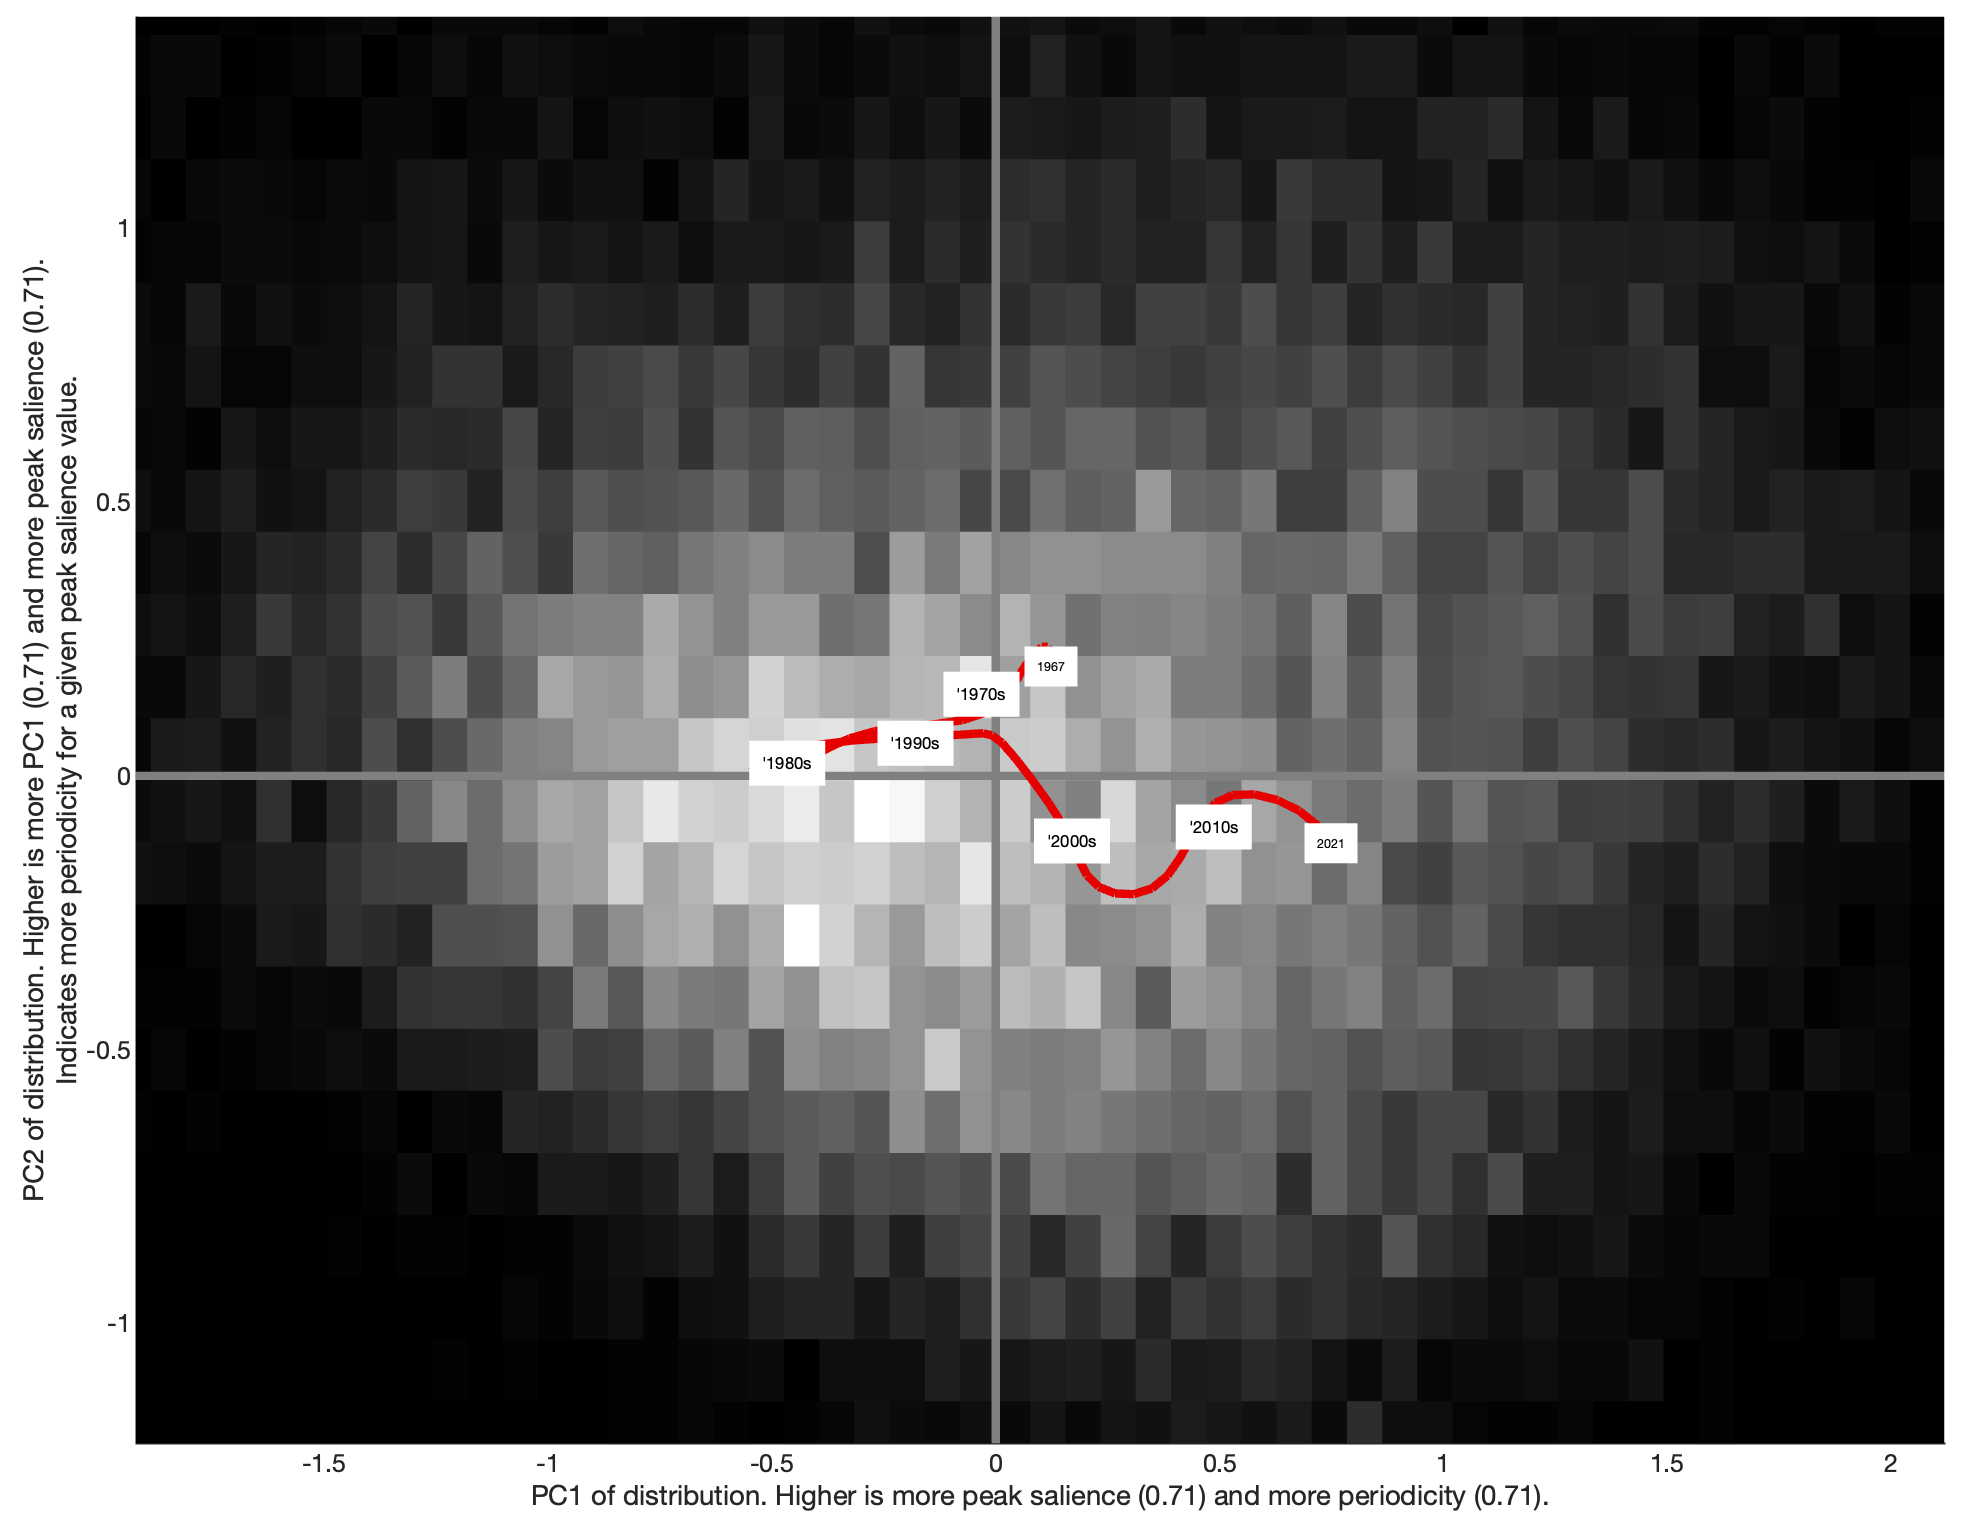
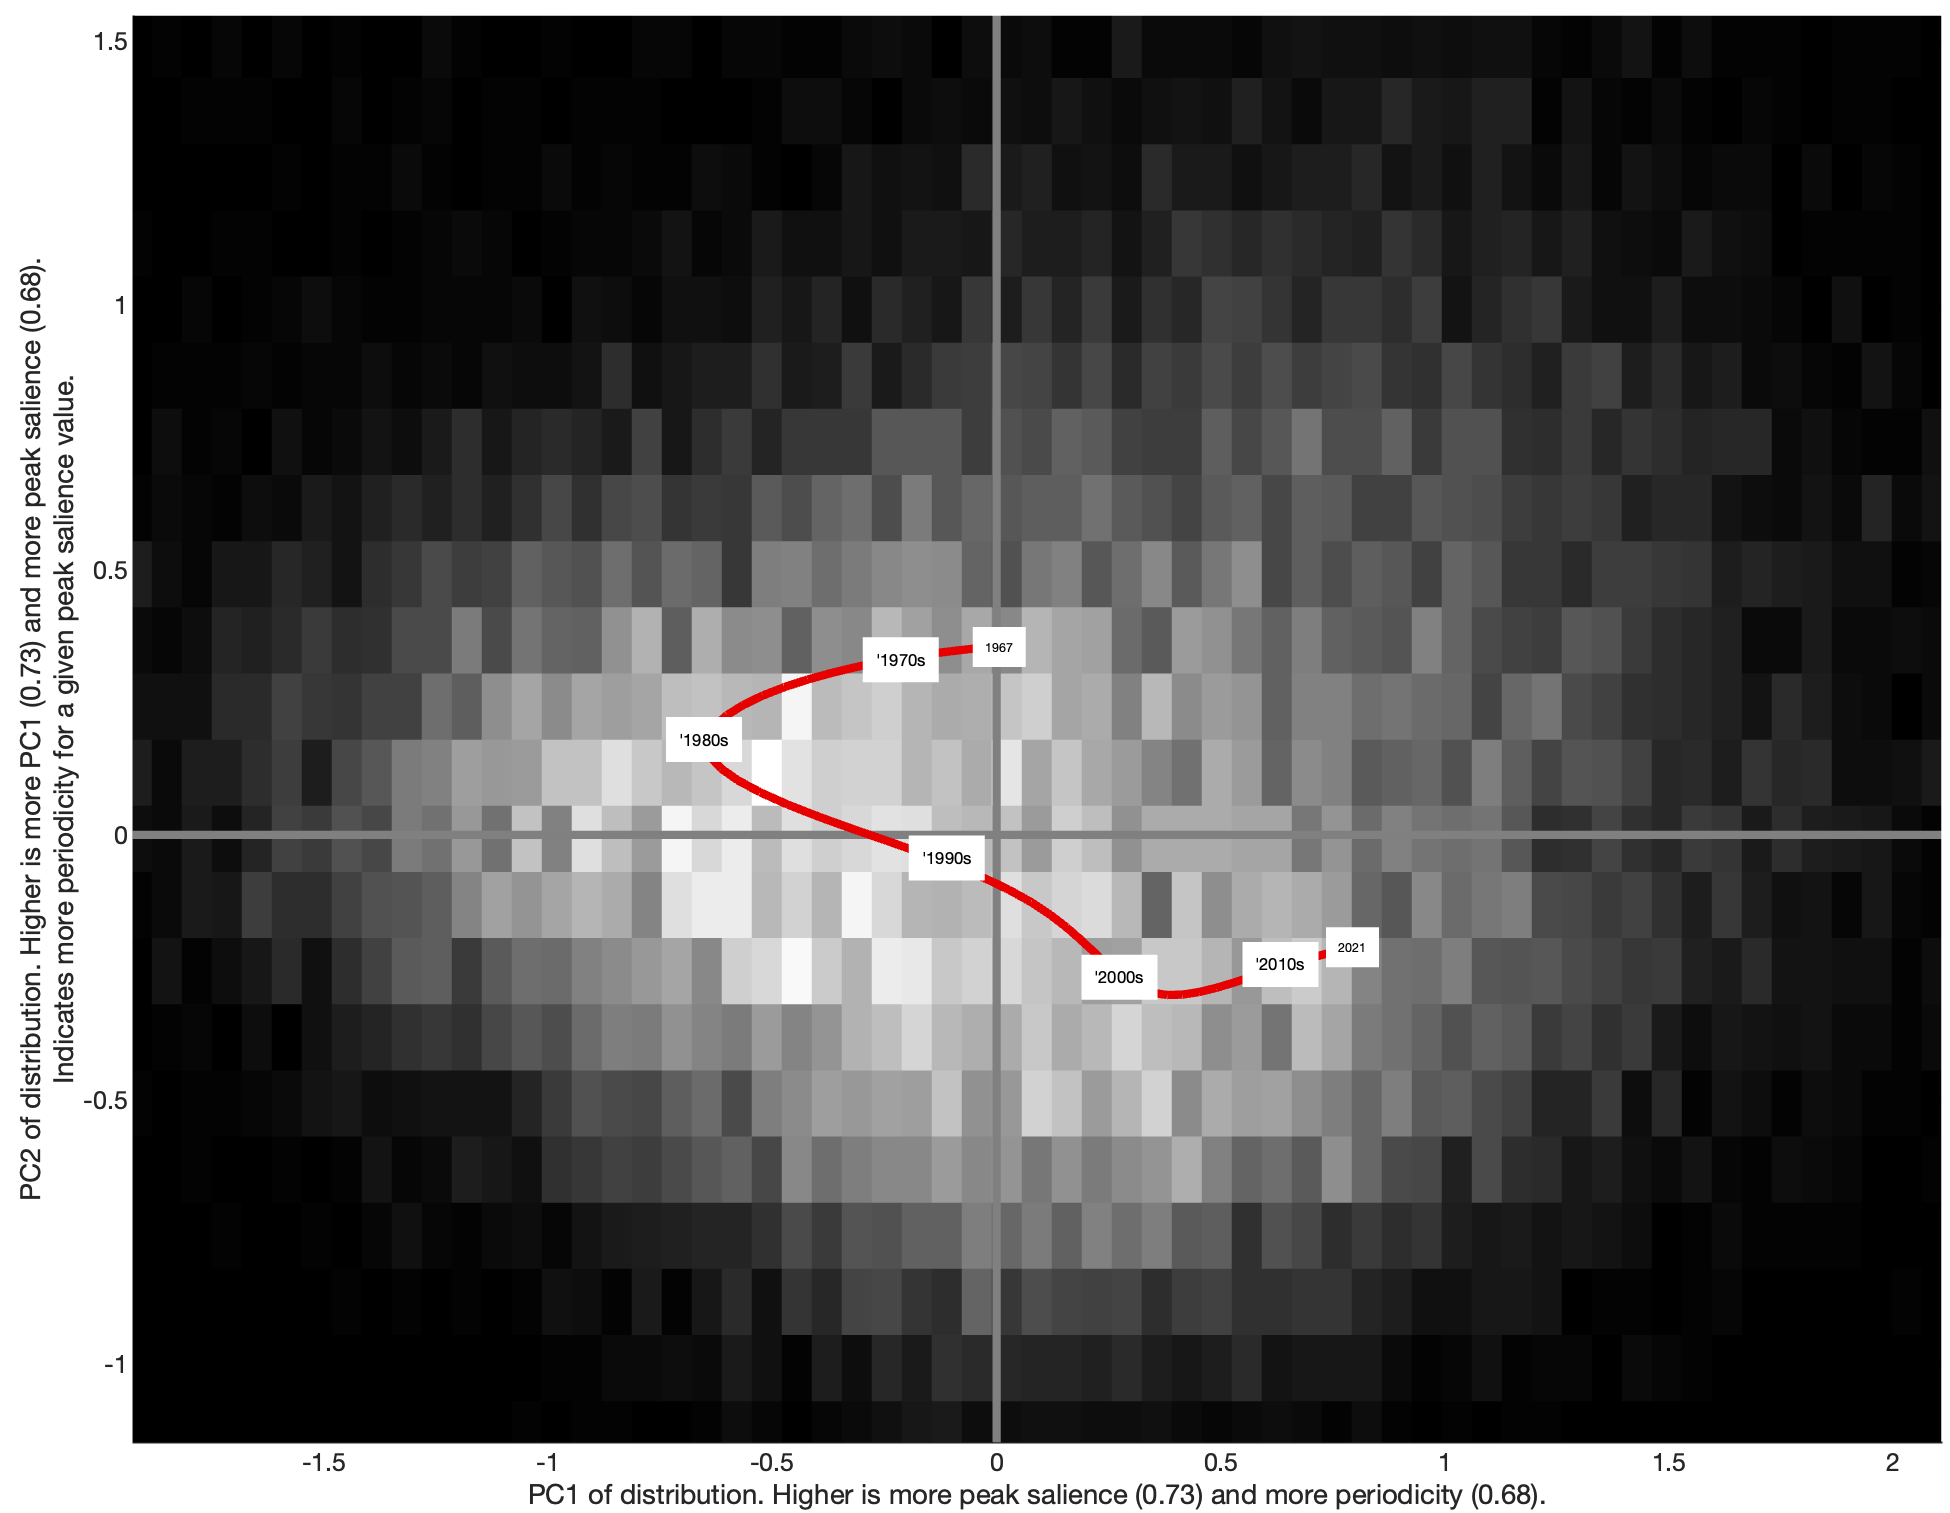
aa

diff --git a/docs/index.html b/docs/index.html
@@ -53,6 +53,16 @@
            the signal (ie organisation into harmonics).<br>
         </p></td>
     </tr>
+    <tr>
+            <td colspan="2" bgcolor="#88F5FF" style="text-align: center"><strong> <br>
+        ISO/IEC 2001 (MPEG7), &quot;harmonic ratio&quot;, on ISO 226 2001 weighted audio<br>
+        <br>
+      </strong></td>
+    </tr>
+    <tr>
+      <td style="text-align: center">&nbsp;</td>
+      <td style="text-align: center">&nbsp;</td>
+    </tr>
   </tbody>
 </table>
 <p style="font-size: xx-large">&nbsp;</p>
@@ -68,6 +78,9 @@
     <tr>
       <td style="text-align: left">Wiener entropy</td>
       <td style="text-align: center"><p><img src="imgs/Wiener_upload.png" width="400" height="322" alt=""/></p>
+        <p>Top: physical. Bottom: weighted with ISO 226 2001.<br>
+          Main effect of ISO226 2001 is to attenuate the influence of bass frequencies and increase the influence of high-medium frequencies.
+        </p>
         <p>Similar to MPEG7, &quot;AudioSpectrumFlatnessType&quot; feature (ISO/IEC, 2001), but global. Definition by (ISO/IEC, 2001), p.34:</p>
         <p>&quot;The AudioSpectrumFlatnessType describes the flatness properties of the short-term power spectrum of an audio signal. This descriptor expresses the deviation of the signal’s power spectrum over frequency from a flat shape (corresponding to a noise-like or an impulse-like signal). A high deviation from a flat shape may indicate the presence of tonal components. The spectral flatness analysis is calculated for a number of frequency bands. It may be used as a feature vector for robust matching between pairs of audio signals.&quot;</p>
         <p><strong>Problem:</strong> wiener entropy is sensitive to large-scale envelope (cf white noise / pink noise difference), and we want to detect the salience of the local peaks.</p>
@@ -160,7 +173,8 @@
           Peak salience for CPM (unweighted) is greater than for piano and orchestra from the shift.<br>
         As the weighting attenuates the low freqs and enhances the high-medium frequencies, it appears that peak salience for the piano is important in the high-medium frequencies.</p>
         <p><strong>To investigate</strong><br>
-        Confirm with observations of the spectrum that peak salience for the piano is important in the high-medium frequencies.<br>
+          Clarify the difference between unweighted and ISO226 2001 weighted.<br>
+          Confirm with observations of the spectrum that peak salience for the piano is important in the high-medium frequencies.<br>
         Relation to spectral contrast?
       </p></td>
     </tr>
@@ -183,18 +197,35 @@
   </tbody>
 </table>
 <p>&nbsp;</p>
-<p><span style="font-size: xx-large">3. WIENER ENTROPY AND PERIODICITY</span></p>
+<p><span style="font-size: xx-large">3. PEAK SALIENCE AND PERIODICITY</span></p>
 <p>&nbsp;</p>
 <table width="1386" border="1" cellpadding="0" cellspacing="0">
   <tbody>
     <tr>
       <td colspan="3" bgcolor="#88F5FF" style="text-align: center"><strong> <br>
-        Wiener entropy and periodicity<br>
+        Peak salience and periodicity (physical domain)<br>
         <br>
       </strong></td>
     </tr>
     <tr>
-      <td width="106" rowspan="2" style="text-align: left">&nbsp;</td>
+      <td width="106" rowspan="3" style="text-align: left">&nbsp;</td>
+      <td colspan="2" style="text-align: center"><p> &quot;Peak salience&quot; is derived from median filtered spectrum: peak salience = (-WE).^.1. WE is the non-weighted </p>
+        <p>&quot;Minus&quot; comes from: when WE is high, peak salience is low<br>
+&quot;.^1&quot; comes from: make the WE distribution more normal</p>
+        <table width="50%" border="0" cellspacing="0" cellpadding="0">
+          <tbody>
+            <tr>
+              <td><img src="imgs/Peak_salience_upload.png" width="400" height="154" alt=""/></td>
+              <td><img src="imgs/harmonic_ratio_upload.png" width="400" height="148" alt=""/></td>
+            </tr>
+            <tr>
+              <td style="text-align: center">X axis</td>
+              <td style="text-align: center">Y axis</td>
+            </tr>
+          </tbody>
+        </table></td>
+    </tr>
+    <tr>
       <td width="637" style="text-align: center"><img src="imgs/BEA_WE_Harm_balanced_dists_upload.png" width="400" height="319" alt=""/></td>
       <td width="637" style="text-align: center"><img src="imgs/BEA_WE_Harm_balanced_dists_rotated_upload.png" width="400" height="305" alt=""/></td>
     </tr>
@@ -202,16 +233,28 @@
       <td style="text-align: center">When peak salience increases, periodicity increases.<br>
       On first approximation, both features reach a local minimum during the '80s.</td>
       <td style="text-align: center"><p>PCA of the left diagram.<br>
-        The PCA coefficients are identical =&gt; overall, both features evolve jointly.</p>
-        <p>PC2 shows that from the '2000s, periodicity decreases at equal peak salience.</p></td>
+      </p>
+        <p>PC2 shows that from the '80s, periodicity decreases at equal peak salience.</p></td>
     </tr>
     <tr>
       <td colspan="3" style="text-align: center"><p><strong>Possible interpretation<br>
       </strong></p>
-        <p>The width of the peaks may increase from the '2000s.<br>
+        <p>Could the width of the peaks increase from the '2000s?<br>
           Is not contradictory with the &quot;PC1-WE&quot; diagrams below, in which we see that parallel 
-          organisation for a given peak salience decreases during the same period.<br>
+        organisation for a given peak salience decreases during the same period.</p>
+        <p>Imagine and produce examples of variable periodicity with equal peak salience.<br>
         </p></td>
+    </tr>
+    <tr>
+      <td colspan="3" bgcolor="#88F5FF" style="text-align: center"><strong> <br>
+        Peak salience and periodicity (weighted with ISO 226 2001)<br>
+        <br>
+      </strong></td>
+    </tr>
+    <tr>
+      <td style="text-align: center">&nbsp;</td>
+      <td style="text-align: center">&nbsp;</td>
+      <td style="text-align: center">&nbsp;</td>
     </tr>
   </tbody>
 </table>
